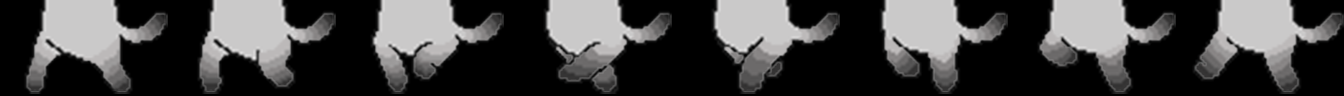
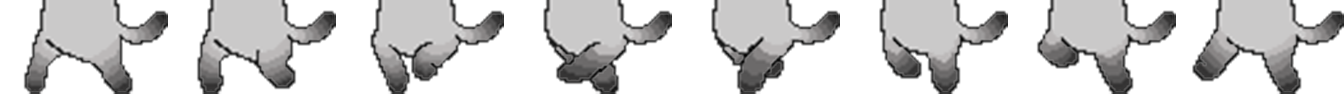
Make proper images and add animation for cat's top.

diff --git a/iOS/longcat/qml/Core/Game/Cat.qml b/iOS/longcat/qml/Core/Game/Cat.qml
@@ -64,11 +64,17 @@ Column {
         }
     }
 
-    Image {
-        width:    sourceSize.width  * cat.imageScale
-        height:   sourceSize.height * cat.imageScale
-        source:   "qrc:/resources/images/game/cat/top.png"
-        fillMode: Image.PreserveAspectFit
+    AnimatedSprite {
+        width:       frameWidth  * cat.imageScale
+        height:      frameHeight * cat.imageScale
+        running:     cat.visible
+        source:      "qrc:/resources/images/game/cat/top.png"
+        frameCount:  4
+        frameWidth:  168
+        frameHeight: 120
+        frameX:      0
+        frameRate:   4
+        loops:       AnimatedSprite.Infinite
     }
 
     Image {
